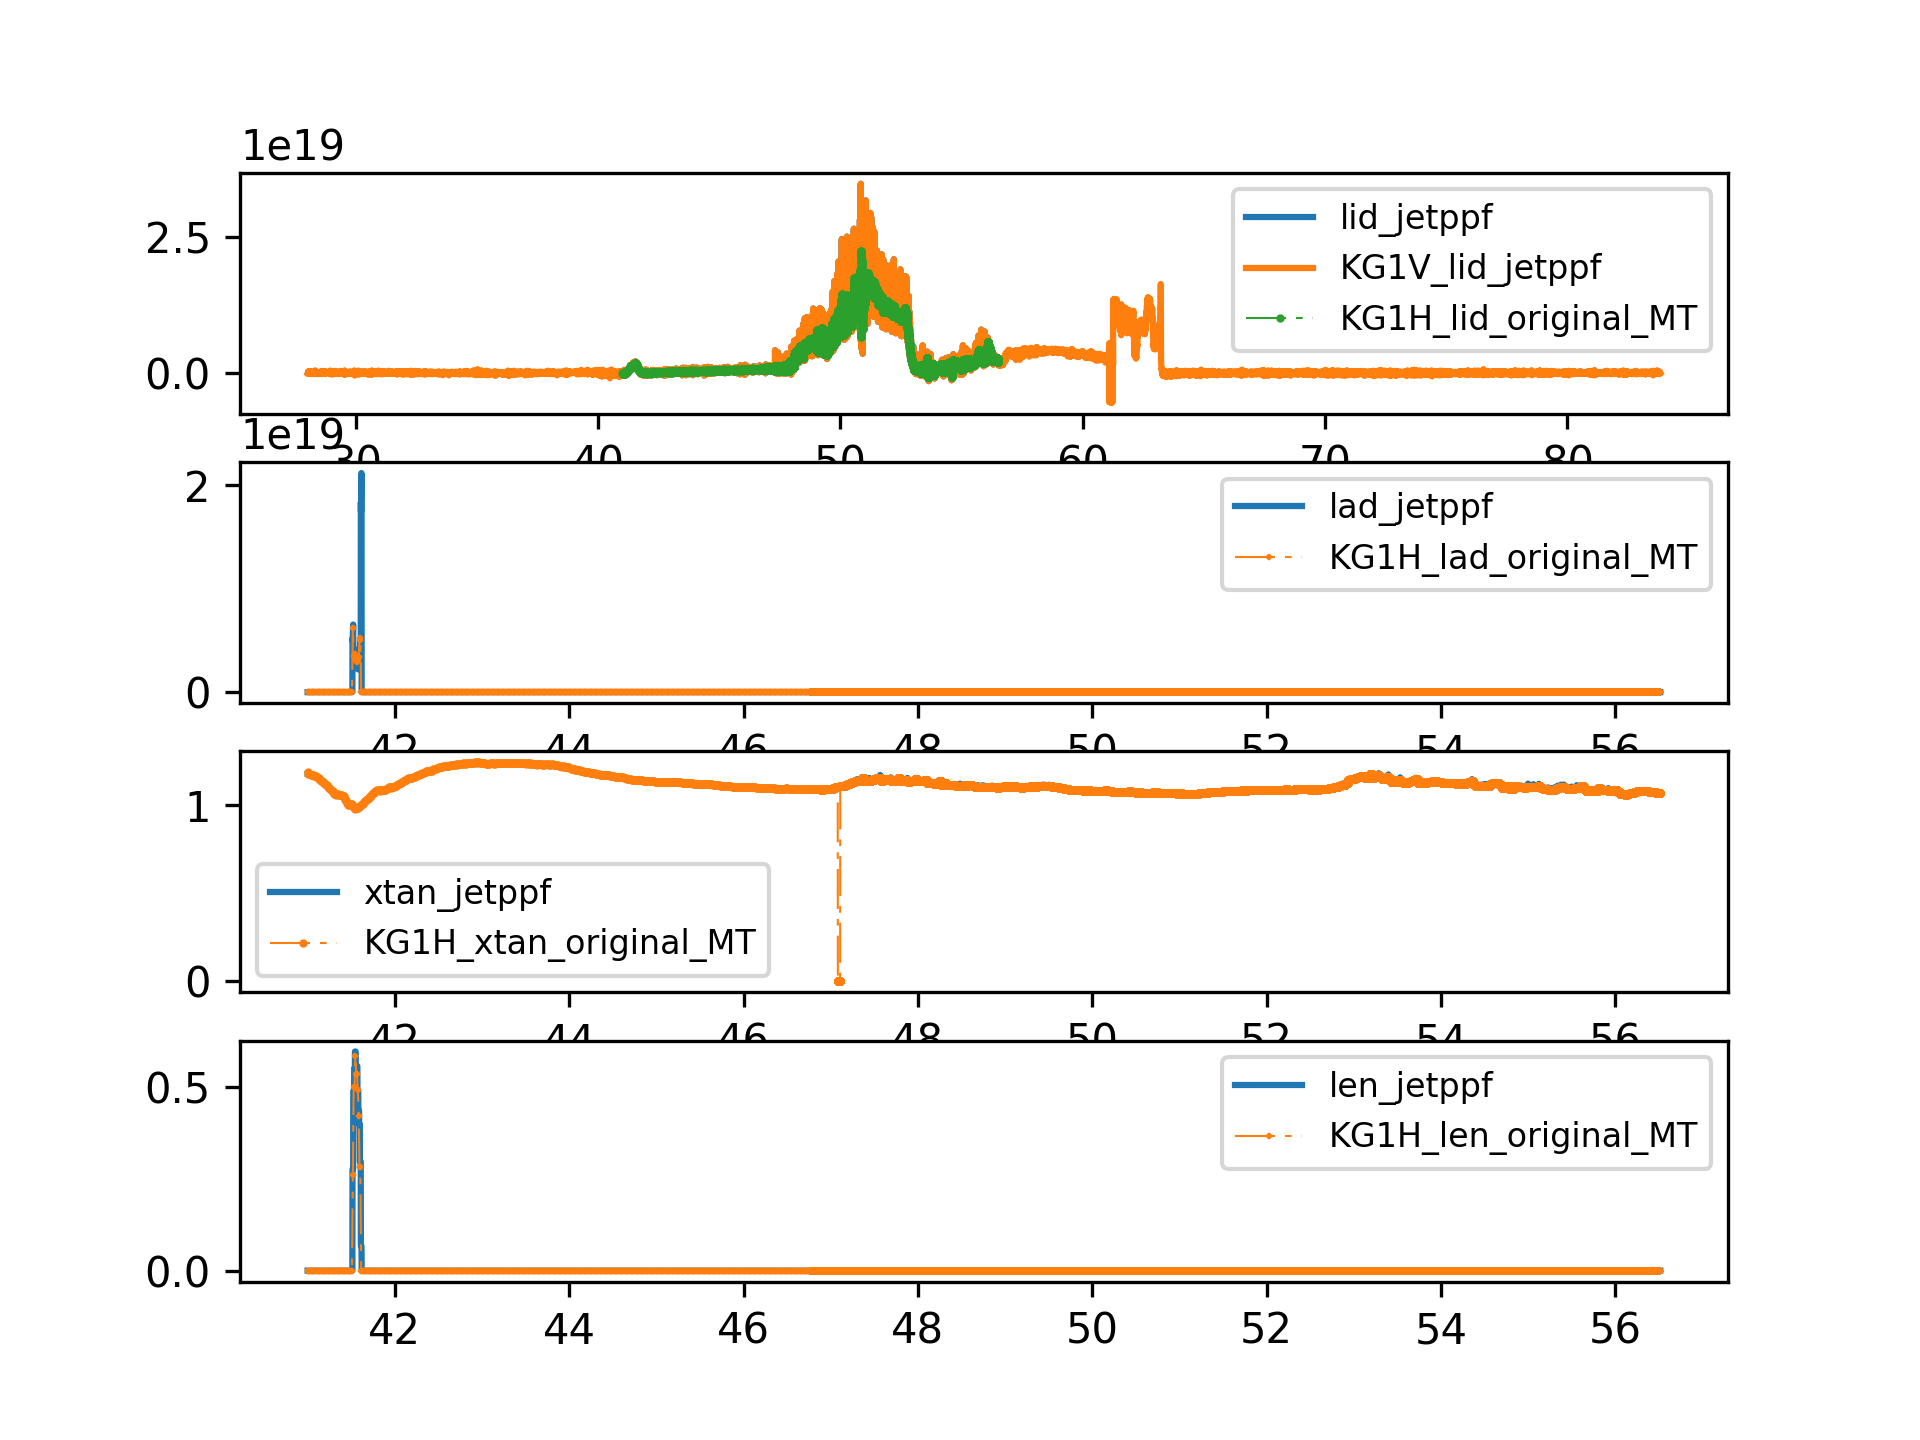
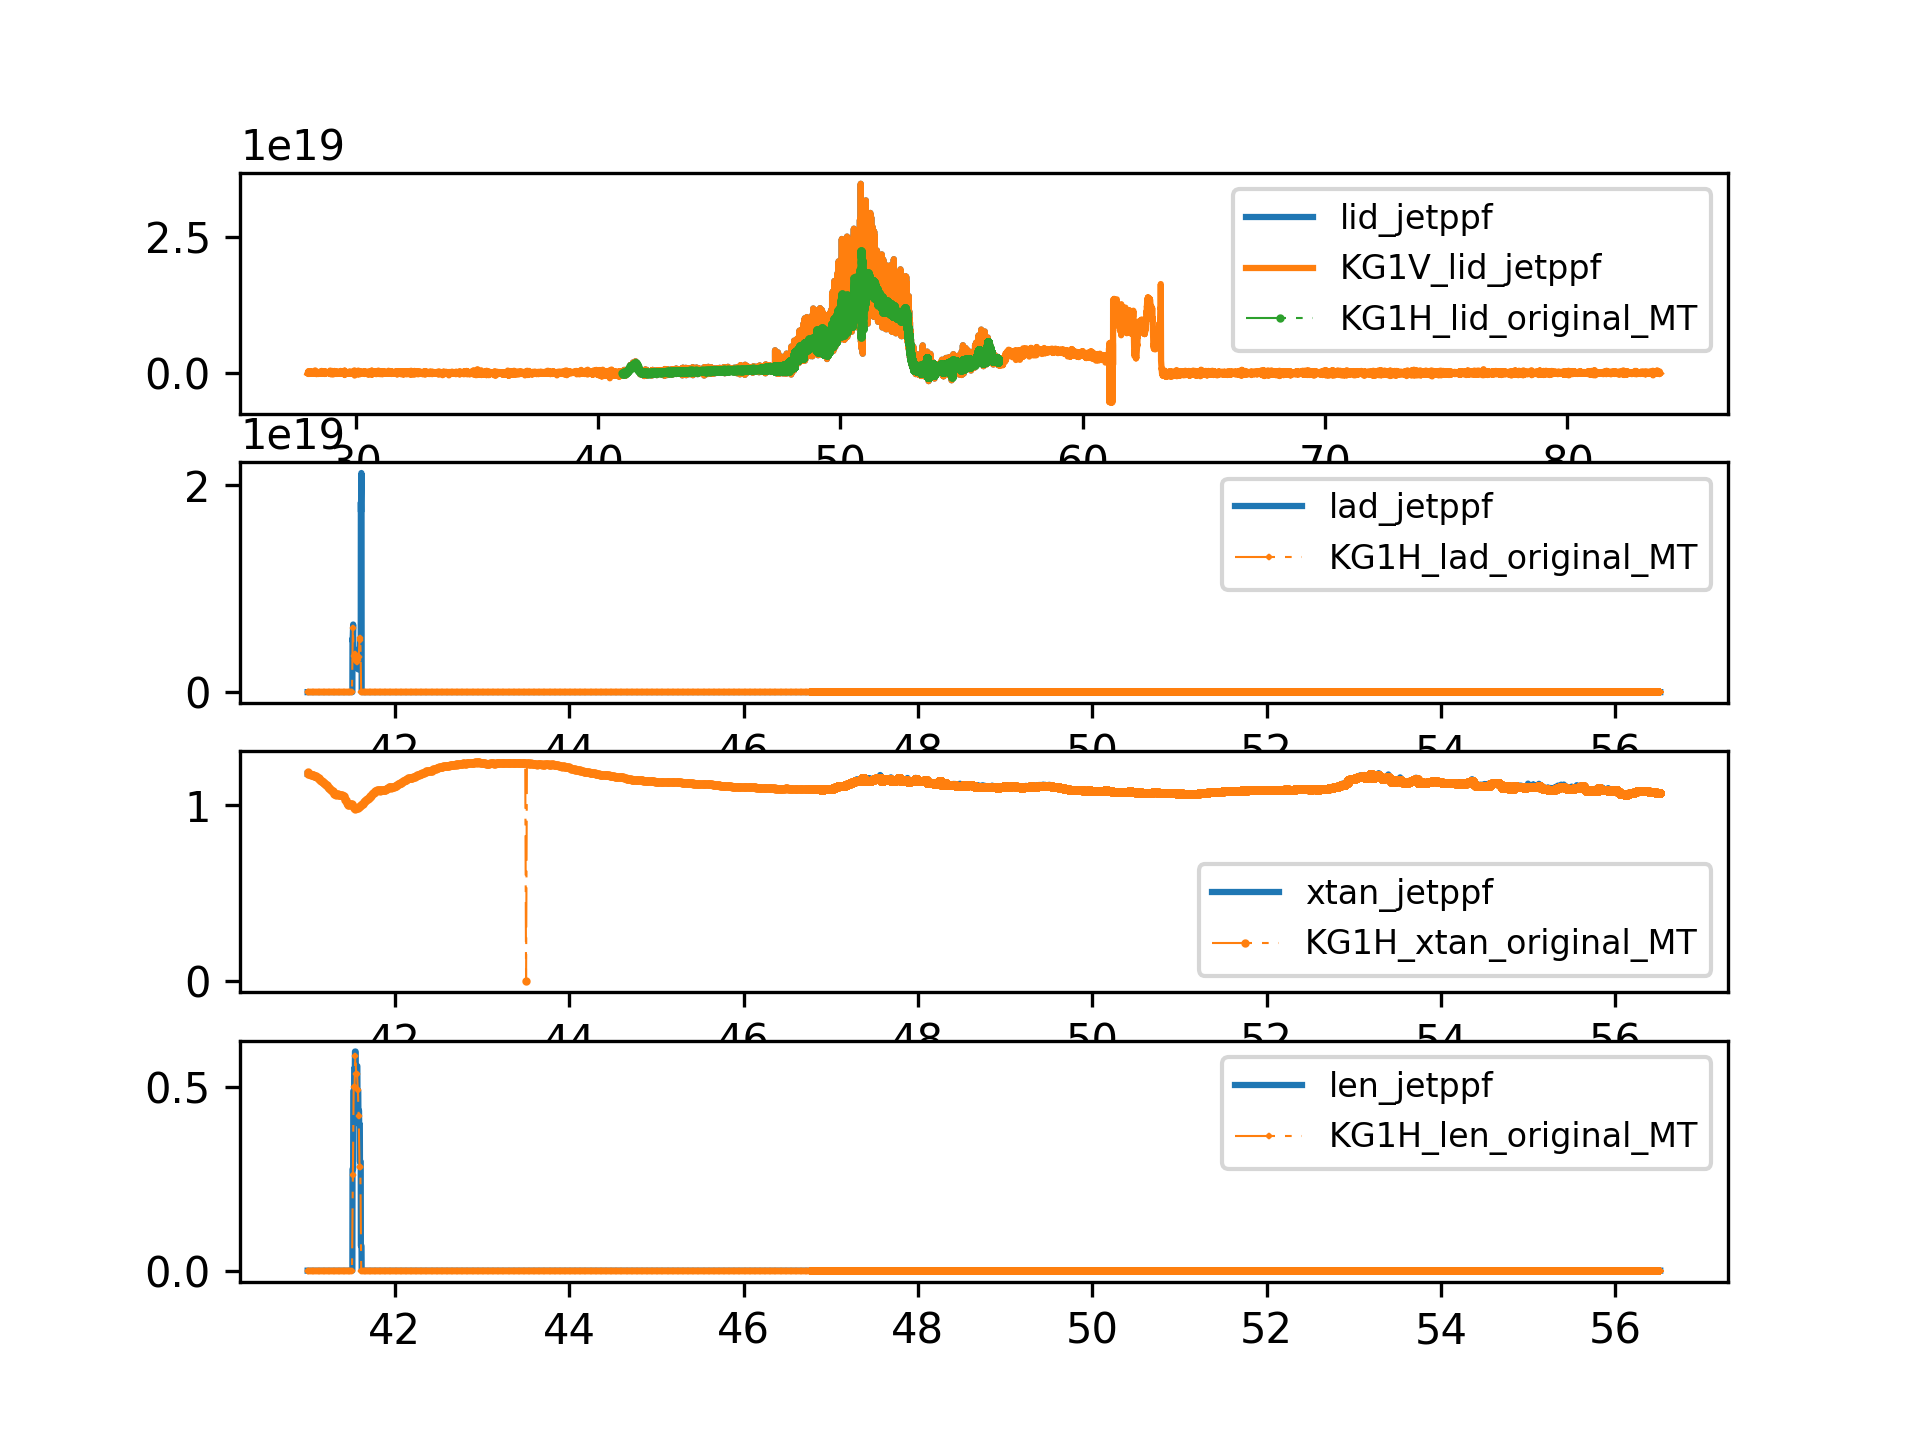
now user can choose which algorithm to use to filter kg1 lids

Changed region(s): [[0.625, 0.5938, 0.9062, 0.6875], [0.125, 0.5938, 0.4062, 0.6875], [0.125, 0.6562, 0.1562, 0.6875]]

diff --git a/python/GO_kg1lh.py b/python/GO_kg1lh.py
@@ -8,7 +8,7 @@ Class that runs CORMAT_py GUI
 __author__ = "Bruno Viola"
 __Name__ = "KG1L_py"
 __version__ = "0.0"
-__release__ = "0.4"
+__release__ = "0.5"
 __maintainer__ = "Bruno Viola"
 __email__ = "bruno.viola@ukaea.uk"
 __status__ = "Testing"
@@ -583,7 +583,7 @@ def time_loop(arg):
 
 
 
-def main(shot_no, code,read_uid, write_uid, number_of_channels,test=False):
+def main(shot_no, code,read_uid, write_uid, number_of_channels,algorithm,test=False):
     '''
     Program to calculate the line averaged density for all channels of
     C kg1v. Other outputs are the tangent flux surface
@@ -798,49 +798,52 @@ def main(shot_no, code,read_uid, write_uid, number_of_channels,test=False):
         # 4. mapping kg1v data onto efit time vector
         # pdb.set_trace()
         # -------------------------------
-    # logger.info('start mapping kg1v data onto efit time vector')
-    # start_time = time.time()
-    # with Pool(10) as pool:
-    #     results = pool.map(map_kg1_efit, [(data, chan) for chan in channels])
-    # logger.info("--- {}s seconds ---".format((time.time() - start_time)))
-    # # pdb.set_trace()
-    # for i,r in enumerate(results):
-    #     if len(r[0].KG1LH_data.lid.keys()) != 0:
-    #         data.KG1LH_data.lid[i+1] = SignalBase(data.constants)
-    #         data.KG1LH_data.lid[i+1].time = r[0].KG1LH_data.lid[r[1]].time
-    #         data.KG1LH_data.lid[i+1].data = r[0].KG1LH_data.lid[r[1]].data
-    #     else:
-    #         continue
+    if algorithm.lower() =='fortran':
+        logger.info('start mapping kg1v data onto efit time vector')
+        start_time = time.time()
+        with Pool(10) as pool:
+            results = pool.map(map_kg1_efit, [(data, chan) for chan in channels])
+        logger.info("--- {}s seconds ---".format((time.time() - start_time)))
+        # pdb.set_trace()
+        for i,r in enumerate(results):
+            if len(r[0].KG1LH_data.lid.keys()) != 0:
+                data.KG1LH_data.lid[i+1] = SignalBase(data.constants)
+                data.KG1LH_data.lid[i+1].time = r[0].KG1LH_data.lid[r[1]].time
+                data.KG1LH_data.lid[i+1].data = r[0].KG1LH_data.lid[r[1]].data
+            else:
+                continue
     #
     #
-    logger.info('start mapping kg1v data onto efit time vector - using rolling mean')
-    start_time = time.time()
-    with Pool(10) as pool:
-        results = pool.map(map_kg1_efit_RM, [(data, chan) for chan in channels])
-    logger.info("--- {}s seconds ---".format((time.time() - start_time)))
+    elif algorithm.lower()=='rolling_mean':
+        logger.info('start mapping kg1v data onto efit time vector - using rolling mean')
+        start_time = time.time()
+        with Pool(10) as pool:
+            results = pool.map(map_kg1_efit_RM, [(data, chan) for chan in channels])
+        logger.info("--- {}s seconds ---".format((time.time() - start_time)))
 
-    for i,r in enumerate(results):
-        if len(r[0].KG1LH_data.lid.keys()) != 0:
-            data.KG1LH_data.lid[i+1] = SignalBase(data.constants)
-            data.KG1LH_data.lid[i+1].time = r[0].KG1LH_data.lid[r[1]].time
-            data.KG1LH_data.lid[i+1].data = r[0].KG1LH_data.lid[r[1]].data
-        else:
-            continue
+        for i,r in enumerate(results):
+            if len(r[0].KG1LH_data.lid.keys()) != 0:
+                data.KG1LH_data.lid[i+1] = SignalBase(data.constants)
+                data.KG1LH_data.lid[i+1].time = r[0].KG1LH_data.lid[r[1]].time
+                data.KG1LH_data.lid[i+1].data = r[0].KG1LH_data.lid[r[1]].data
+            else:
+                continue
+    elif algorithm.lower()=='rolling_mean_pandas':
 
-    # logger.info('start mapping kg1v data onto efit time vector - using pandas rolling mean')
-    # start_time = time.time()
-    # with Pool(10) as pool:
-    #     results = pool.map(map_kg1_efit_RM_pandas,
-    #                        [(data, chan) for chan in channels])
-    # logger.info("--- {}s seconds ---".format((time.time() - start_time)))
-    #
-    # for i, r in enumerate(results):
-    #     if len(r[0].KG1LH_data.lid.keys()) != 0:
-    #         data.KG1LH_data.lid[i + 1] = SignalBase(data.constants)
-    #         data.KG1LH_data.lid[i + 1].time = r[0].KG1LH_data.lid[r[1]].time
-    #         data.KG1LH_data.lid[i + 1].data = r[0].KG1LH_data.lid[r[1]].data
-    #     else:
-    #         continue
+        logger.info('start mapping kg1v data onto efit time vector - using pandas rolling mean')
+        start_time = time.time()
+        with Pool(10) as pool:
+            results = pool.map(map_kg1_efit_RM_pandas,
+                               [(data, chan) for chan in channels])
+        logger.info("--- {}s seconds ---".format((time.time() - start_time)))
+
+        for i, r in enumerate(results):
+            if len(r[0].KG1LH_data.lid.keys()) != 0:
+                data.KG1LH_data.lid[i + 1] = SignalBase(data.constants)
+                data.KG1LH_data.lid[i + 1].time = r[0].KG1LH_data.lid[r[1]].time
+                data.KG1LH_data.lid[i + 1].data = r[0].KG1LH_data.lid[r[1]].data
+            else:
+                continue
 
 
 #################################################
@@ -923,6 +926,8 @@ def main(shot_no, code,read_uid, write_uid, number_of_channels,test=False):
     #plot=False
 
     if plot:
+        logging.info('plotting data and comparison with Fortran code')
+        # logging.info('plotting data')
         dda = data.code.upper()
         for chan in channels:
             if chan in data.KG1LH_data.lid.keys():
@@ -1193,6 +1198,9 @@ if __name__ == "__main__":
     parser.add_argument("-ch", "--number_of_channels", type=int,
                         help="Number of channels to process",
                         default=8)
+    parser.add_argument("-a", "--algorithm",
+                        help="algorithm to be used to filter kg1 lid",
+                        default='rolling_mean')
     parser.add_argument("-t", "--test",
                         help="""Run in test mode. In this mode code will run and if -uw=JETPPF then no PPF will be written, to avoid
                             over-writing validated data.""", default=False)
@@ -1220,4 +1228,4 @@ if __name__ == "__main__":
 
 
     # Call the main code
-    main(args.pulse, args.code,args.uid_read, args.uid_write, args.number_of_channels, args.test)
+    main(args.pulse, args.code,args.uid_read, args.uid_write, args.number_of_channels,args.algorithm, args.test)
